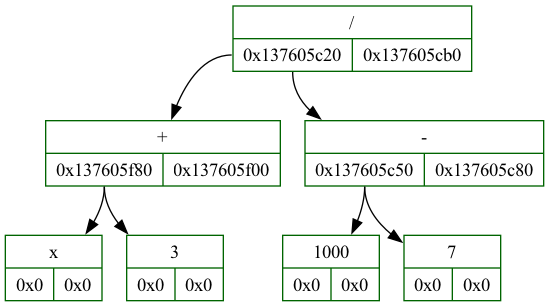
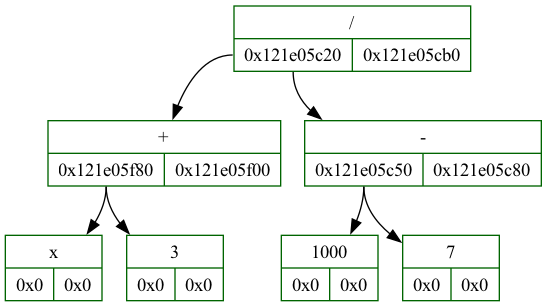
dump

diff --git a/log/dump.html b/log/dump.html
@@ -3,9 +3,8 @@
 	ERROR: NO_ERROR
 	Dump called from src/main.cpp:main:24
 	Tree tree born in src/main.cpp:main:17
-	Binary Expression Tree[0x137605d90]{
-		root = 0x137605ce0
-		nodes_amount = 7
+	Binary Expression Tree[0x121e05d90]{
+		root = 0x121e05ce0
 		 <img src = 0.png width = 50%>
 
 </pre>

diff --git a/src/dump_bet.cpp b/src/dump_bet.cpp
@@ -12,7 +12,7 @@ static const char* enumToString(int error);
 static int createDotFile(Node* root);
 static int createNodesAndEdges(FILE* dump_dot, Node* node, TreeDumpAttributes* attrs);
 static int writeNode(FILE* dump_dot, Node* node, TreeDumpAttributes* attrs);
-static int writeEdge(FILE* dump_dot, TreeDumpAttributes* attrs, int node_serial_number, const char label[]);
+static int writeEdge(FILE* dump_dot, TreeDumpAttributes* attrs, long long node, Node* parent, const char label[]);
 
 static int printLabel(FILE* dump_dot, Node* node);
 static int printOperLabel(FILE* dump_dot, Node* node);
@@ -75,11 +75,11 @@ static int createNodesAndEdges(FILE* dump_dot, Node* node, TreeDumpAttributes* a
 
     writeNode(dump_dot, node, attrs);
     if (node->left){
-        writeEdge(dump_dot, attrs, (long long)node->left, "");
+        writeEdge(dump_dot, attrs, (long long)node->left, node, "");
         createNodesAndEdges(dump_dot, node->left, attrs);
     }
     if (node->right){
-        writeEdge(dump_dot, attrs, (long long)node->right, "");
+        writeEdge(dump_dot, attrs, (long long)node->right, node, "");
         createNodesAndEdges(dump_dot, node->right, attrs);
     }
 
@@ -91,13 +91,13 @@ static int writeNode(FILE* dump_dot, Node* node, TreeDumpAttributes* attrs){
     assert(attrs);
     assert(dump_dot);
 
-    fprintf(dump_dot, "\tnode_%ld [", (int)node);
+    fprintf(dump_dot, "\tnode_%lld [", (long long)node);
     fprintf(dump_dot,  "color = \"%s\", ", attrs->node_color);
     fprintf(dump_dot,  "style = \"filled\", ");
     fprintf(dump_dot,  "shape = \"%s\", ", attrs->node_shape);
     fprintf(dump_dot,  "fillcolor = \"%s\", ", attrs->node_fillcolor);
     printLabel(dump_dot, node);
-    fprintf(dump_dot,   " | {<fl%d> %p | <fr%d> %p}}\"]\n", (long long)node, node->left, (long long)node, node->right);
+    fprintf(dump_dot,   " | {<fl%lld> %p | <fr%lld> %p}}\"]\n", (long long)node, node->left, (long long)node, node->right);
 
     return NO_ERROR;
 }
@@ -163,12 +163,12 @@ static int printVarLabel(FILE* dump_dot, Node* node){
     return NO_ERROR;
 }
 
-static int writeEdge(FILE* dump_dot, TreeDumpAttributes* attrs, int node_serial_number, const char label[]){
+static int writeEdge(FILE* dump_dot, TreeDumpAttributes* attrs, long long node, Node* parent, const char label[]){
     assert(dump_dot);
     assert(attrs);
     assert(label);
 
-    fprintf(dump_dot, "\tnode_%d: <fl%d> -> node_%d [", node_serial_number, node_serial_number, --node_counter);
+    fprintf(dump_dot, "\tnode_%lld: <fl%lld> -> node_%lld [", (long long)parent, (long long)parent, node);
     fprintf(dump_dot,  "color = \"%s\", ", attrs->edge_color);
     fprintf(dump_dot,  "arrowhead = \"%s\", ", attrs->edge_arrowhead);
     fprintf(dump_dot,  "label = \"%s\"]\n", label);
